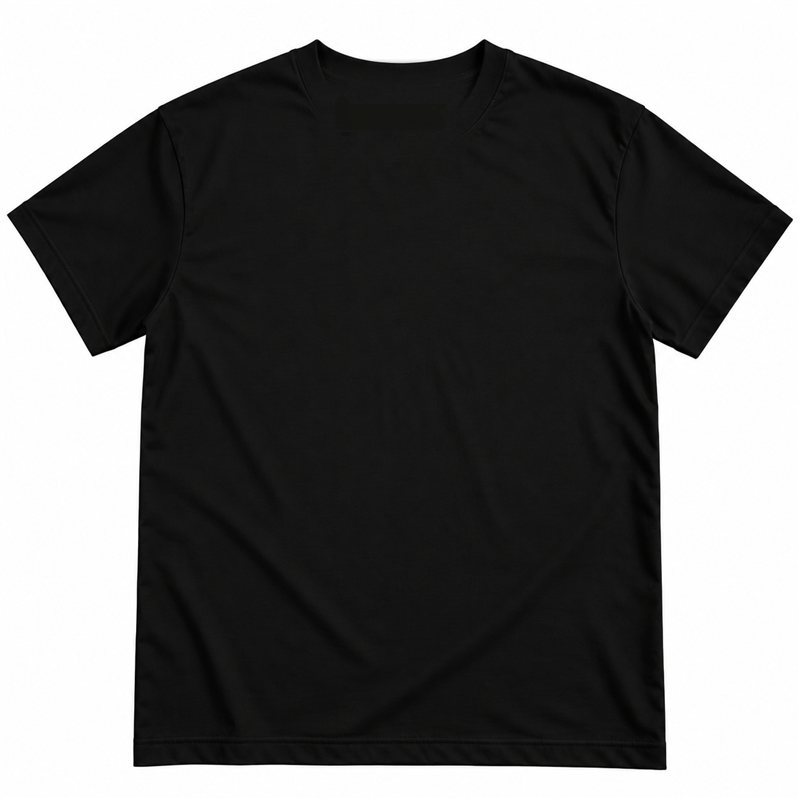
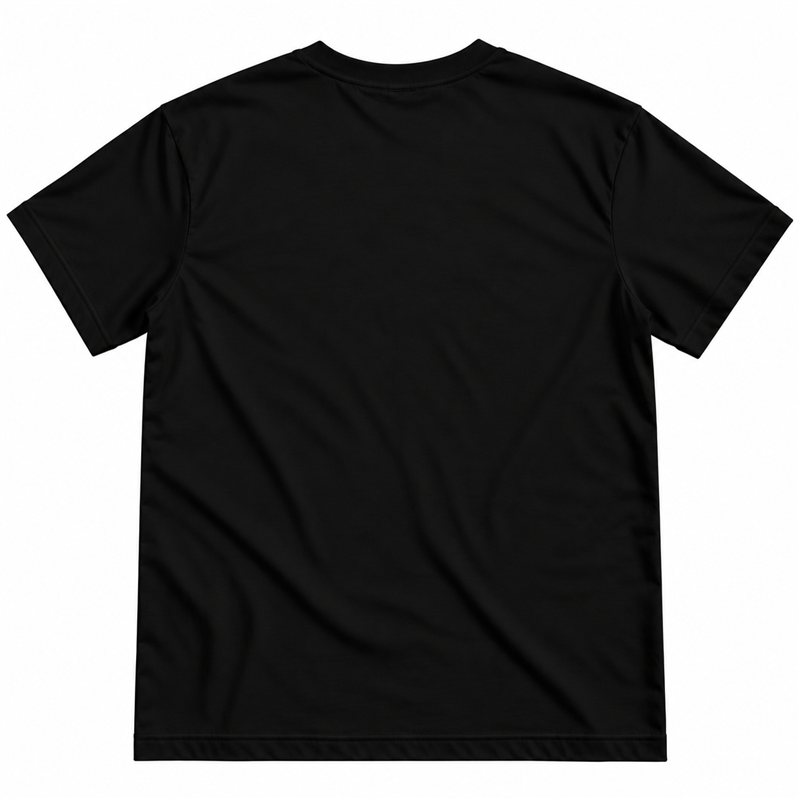
feat(b2c): guests continue their exact order step after login
- Shirt step redirects anonymous visitors to login with returnUrl back
  to /order/shirt/{designId} (and to complete-profile when logged in
  without a customer profile)
- returnUrl now survives the whole OTP login: request-code and verify
  forms carry it, complete-profile accepts ?returnUrl= and redirects
  there after saving
- Root cause of lost context after login fixed: SignInAsync writes the
  cookie but does not update HttpContext.User in the same request —
  CoreApiClient now sets context.User = principal so same-request API
  calls (profile lookup right after login) carry the fresh token
- Real back-view shirt photos (uploaded) replace the synthesized ones

diff --git a/02_WebAPP_B2C/BARANG.B2C.Web/Pages/Order/Shirt.cshtml.cs b/02_WebAPP_B2C/BARANG.B2C.Web/Pages/Order/Shirt.cshtml.cs
@@ -55,7 +55,11 @@ public sealed class ShirtModel(CoreApiClient core, CustomerContext customers) : 
         JsonElement? customer = await customers.CurrentAsync();
         if (customer is not JsonElement c || c.ValueKind != JsonValueKind.Object || !c.TryGetProperty("id", out JsonElement cid))
         {
-            return RedirectToPage("/Account/Index", new { error = "noprofile" });
+            // مهمان: اول وارد شود و دقیقاً از همین مرحله سفارش ادامه دهد
+            string returnUrl = Request.Path + Request.QueryString;
+            if (User.Identity?.IsAuthenticated == true)
+                return RedirectToPage("/Account/CompleteProfile", new { returnUrl });
+            return RedirectToPage("/Account/Login", new { returnUrl });
         }
         HasProfile = true;
         string customerId = cid.GetString() ?? "";
@@ -130,7 +134,10 @@ public sealed class ShirtModel(CoreApiClient core, CustomerContext customers) : 
         JsonElement? customer = await customers.CurrentAsync();
         if (customer is not JsonElement c || c.ValueKind != JsonValueKind.Object || !c.TryGetProperty("id", out JsonElement cid))
         {
-            return RedirectToPage("/Account/Index", new { error = "noprofile" });
+            string returnUrl = Uri.EscapeDataString($"/order/shirt/{designId}?addToOrderId={addToOrderId}");
+            if (User.Identity?.IsAuthenticated == true)
+                return RedirectToPage("/Account/CompleteProfile", new { returnUrl });
+            return RedirectToPage("/Account/Login", new { returnUrl });
         }
         if (VariantId is null || Quantity <= 0)
         {

diff --git a/02_WebAPP_B2C/BARANG.B2C.Web/Pages/Account/CompleteProfile.cshtml.cs b/02_WebAPP_B2C/BARANG.B2C.Web/Pages/Account/CompleteProfile.cshtml.cs
@@ -33,6 +33,7 @@ public sealed class CompleteProfileModel(CoreApiClient core, CustomerContext cus
     [BindProperty] public string Email { get; set; } = "";
 
     public string? Error { get; private set; }
+    [BindProperty(SupportsGet = true)] public string? ReturnUrl { get; set; }
     public bool Saved { get; private set; }
     public bool IsJalali { get; private set; }
     public string? BirthPlaceholder { get; private set; }
@@ -120,8 +121,11 @@ public sealed class CompleteProfileModel(CoreApiClient core, CustomerContext cus
                 Response.Cookies.Delete("barang.ref");
             }
         }
-        return RedirectToPage("/Account/Index");
+        // پس از تکمیل اطلاعات، ادامه همان مسیری که کاربر در آن بود
+        return LocalRedirect(SafeReturnUrl() ?? "/account");
     }
+
+    private string? SafeReturnUrl() => Url.IsLocalUrl(ReturnUrl) ? ReturnUrl : null;
 
     // Accepts Jalali (fa) or Gregorian (en/ar) input in yyyy/MM/dd shape and
     // converts the Jalali one via the Persian calendar.

diff --git a/02_WebAPP_B2C/BARANG.B2C.Web/Pages/Account/Login.cshtml.cs b/02_WebAPP_B2C/BARANG.B2C.Web/Pages/Account/Login.cshtml.cs
@@ -81,8 +81,11 @@ public sealed class LoginModel(CoreApiClient core, CustomerContext customers) : 
             return Page();
         }
         // First login with an incomplete account: force profile completion.
-        if (await customers.CurrentAsync() is null)
-            return LocalRedirect("/account/complete-profile");
+        // پروفایل مشتری هنوز ساخته نشده: تکمیل اجباری اطلاعات، و بعد ادامه همان مسیر
+        string profileTarget = "/account/complete-profile"
+            + (string.IsNullOrWhiteSpace(ReturnUrl) ? "" : "?returnUrl=" + Uri.EscapeDataString(ReturnUrl));
+        var profile = await customers.CurrentAsync();
+        if (profile is null) return LocalRedirect(profileTarget);
         return LocalRedirect(string.IsNullOrWhiteSpace(ReturnUrl) ? "/account" : ReturnUrl);
     }
 

diff --git a/02_WebAPP_B2C/BARANG.B2C.Web/Services/CoreApiClient.cs b/02_WebAPP_B2C/BARANG.B2C.Web/Services/CoreApiClient.cs
@@ -219,6 +219,9 @@ public sealed class CoreApiClient(IHttpClientFactory factory, IHttpContextAccess
         HttpContext? context = accessor.HttpContext;
         if (context is null) return new(false, "no_context");
         await context.SignInAsync(CookieAuthenticationDefaults.AuthenticationScheme, principal, new AuthenticationProperties { IsPersistent = true, ExpiresUtc = DateTimeOffset.UtcNow.AddHours(12) });
+        // SignInAsync کوکی را مینویسد ولی HttpContext.User را در همین درخواست عوض نمیکند؛
+        // بدون این، فراخوانیهای API در همین ریکوئست (مثل خواندن پروفایل بعد از ورود) بدون توکن میروند
+        context.User = principal;
         return new(true, null);
     }
 
